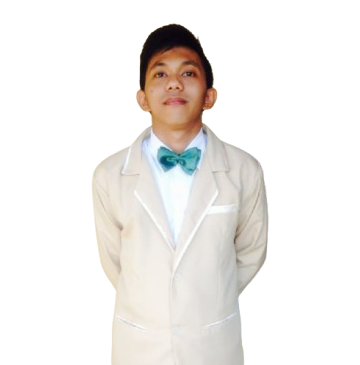
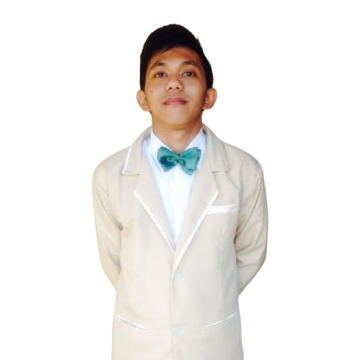
fix: update hero section profile image

diff --git a/src/components/partials/hero.tsx b/src/components/partials/hero.tsx
@@ -32,7 +32,7 @@ export default function Hero() {
 							</Text>
 							<Heading
 								as={'h1'}
-								size={{ base: '4xl', md: '6xl', xl: '7xl' }}
+								size={{ base: '4xl', md: '6xl' }}
 								fontWeight={'bold'}
 								lineHeight={1}
 								color={'foreground'}
@@ -47,7 +47,7 @@ export default function Hero() {
 						<Separator borderColor={'foregroundDimmed'} />
 
 						<Stack gapY={'6'}>
-							<Heading size={{ base: '2xl', sm: '4xl' }} fontWeight={'bold'} color={'foreground'}>
+							<Heading size={{ base: '2xl', sm: '3xl' }} fontWeight={'bold'} color={'foreground'}>
 								Full Stack Developer
 							</Heading>
 							<Text>
@@ -63,7 +63,7 @@ export default function Hero() {
 
 					{/* Image */}
 					<MotionImageContainer
-						rounded={'4xl'}
+						rounded={'full'}
 						backgroundColor={'background'}
 						overflow={'clip'}
 						animate={{
@@ -71,7 +71,7 @@ export default function Hero() {
 							transition: { duration: 3, repeat: Infinity, repeatType: 'loop', ease: 'easeInOut' },
 						}}
 					>
-						<Image src={me} aspectRatio={3 / 4} objectFit={'cover'} />
+						<Image src={me} aspectRatio={1} />
 					</MotionImageContainer>
 				</Flex>
 			</Container>
